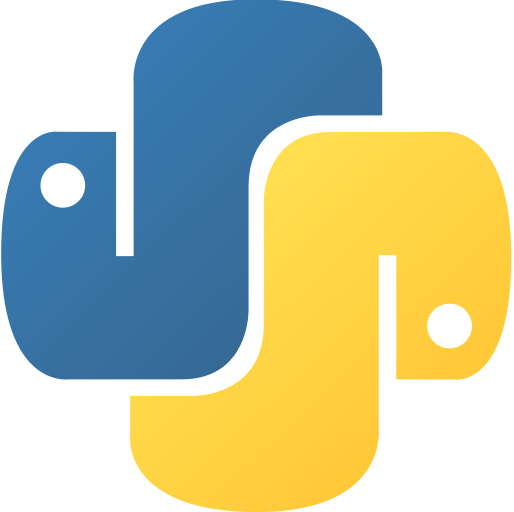
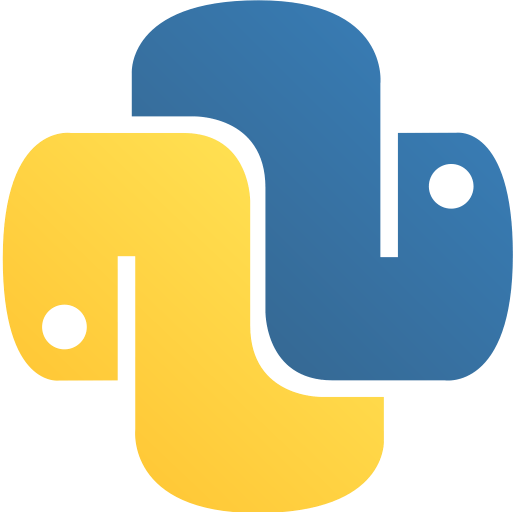
can save a gif now

diff --git a/main.py b/main.py
@@ -3,29 +3,81 @@ import numpy as np
 
 from transforms import *
 
+from debug import timer
+
 IMAGE_FILE = 'images/py_logo.png'
-OUTPUT_FILE = 'images/transformed.png'
+OUTPUT_FILE = 'images/transformed.gif'
+
+FRAME_COUNT = 100
+DURATION = 40 # ms
+
+BACKGROUND = np.array((0, 0, 0))
 
 def load_image(filename):
-	# Load the image as a numpy array
+	# Load the image as a numpy array (saved as [y, x, RGBA])
 	return np.array(Image.open(filename).convert('RGBA'))
 
-def save_image(im, filename):
-	# Save the image
-	im.save(filename)
+def save_image_sequence(im_sequence, filename):
+	images = []
+	for im in im_sequence:
+		images.append(Image.fromarray(blend_background(im, BACKGROUND)))
+	images[0].save(filename, save_all=True, append_images=images[1:], optimize=False, duration=DURATION, loop=1)
 
+def get_grid(x_size, y_size):
+	x = np.arange(x_size)
+	y = np.arange(y_size)
+	xx, yy = np.meshgrid(x, y)
+	return np.column_stack((xx.flatten(), yy.flatten()))
+	#return np.array([(x, y) for x in range(x_size) for y in range(y_size)], dtype=int)
+
+@timer
 def transform_image(im, f):
-	im_shape = im.shape
-	im_transform = np.zeros(im_shape, dtype=im.dtype)
+	y_size, x_size, color_size = im.shape
 
-	for x in range(im_shape[0]):
-		for y in range(im_shape[1]):
-			xx, yy = f(x, y)
-			xx, yy = int(np.round(xx)), int(np.round(yy))
-			if 0 <= xx < im_shape[0] and 0 <= yy < im_shape[1]:
-				im_transform[xx, yy, :] = im[x, y, :]
+	# Create a grid of points for every pixel in the image
+	grid = get_grid(x_size, y_size)
 
-	return im_transform
+	# Transform the grid
+	transformed_grid = f(grid)
+	
+	im_sequence = np.zeros((FRAME_COUNT, y_size, x_size, color_size), dtype=im.dtype)
+	for frame in range(FRAME_COUNT):
+		# Linear interpolation between grid and transformed grid
+		t = frame / (FRAME_COUNT - 1) if FRAME_COUNT > 1 else 1
+		frame_grid = lerp(grid, transformed_grid, t)
+
+		# Round to closest pixel coordinate
+		frame_grid = np.round(frame_grid).astype(int)
+
+		# Mask for all corinates within the image border
+		coord_in_range = valid_coordinates(frame_grid, 0, x_size, 0, y_size)
+
+		valid_transform = frame_grid[coord_in_range,:]
+		valid_grid = grid[coord_in_range,:]
+
+		# Set the new pixel colors
+		im_sequence[frame, valid_transform[:,1], valid_transform[:,0],:] = im[valid_grid[:,1], valid_grid[:,0], :]
+
+	return im_sequence
+
+def transform_grid(grid, f):
+	# Transform a grid with the function f and round to closest pixel
+	return f(grid)
+
+def valid_coordinates(grid, min_x, max_x, min_y, max_y):
+	x_coord_in_range = np.logical_and(min_x <= grid[...,0], grid[...,0] < max_x)
+	y_coord_in_range = np.logical_and(min_y <= grid[...,1], grid[...,1] < max_y)
+	return np.logical_and(x_coord_in_range, y_coord_in_range)
+
+def lerp(grid0, grid1, t):
+	return grid0 + (grid1 - grid0) * t
+
+def blend_background(colors, bg):
+	alpha = (colors[...,3] / 255)[...,np.newaxis]
+	new_color = colors[...,:3] * alpha + (1 - alpha) * bg
+	return np.round(new_color).astype(np.uint8)
+
+
 
 
 
@@ -34,16 +86,19 @@ def main():
 	im = load_image(IMAGE_FILE)
 
 	# Transform the image
-	im_transform = transform_image(im, mirror((1, 1), (im.shape[0] / 2, im.shape[1] / 2)))
-
-	print(im_transform.shape)
-
-	# Convert a numpy array into an image object
-	pil_img = Image.fromarray(im_transform)
+	#transform_func = mirror((1, 0), (0, im.shape[1] / 2))
+	transform_func = möbius(0, 512, 512, 512+512j, 512+512j, 512j)
+	#transform_func = mirror((1, 1), (im.shape[0] / 2, im.shape[1] / 2))
+	print('Calculation transformation...')
+	im_sequence = transform_image(im, transform_func)
 
 	# Save
-	save_image(pil_img, OUTPUT_FILE)
+	print('Saving image to {}'.format(OUTPUT_FILE))
+	save_image_sequence(im_sequence, OUTPUT_FILE)
+	print('Done')
 
+	# Convert a numpy array into an image object
+	pil_img = Image.fromarray(im_sequence[-1])
 	# Show image
 	pil_img.show()
 

diff --git a/transforms.py b/transforms.py
@@ -1,15 +1,63 @@
 import numpy as np
+from debug import timer
 
 # TODO: Decorator?
 
 
 
 def mirror(line, origin):
-	line = np.array(line, dtype=np.float64)
+	# Normalize the line
+	line = np.array(line, dtype=np.float64) / np.sqrt(np.dot(line, line))
 	origin = np.array(origin, dtype=np.float64)
-	def mirror_func(x, y):
-		p = np.array((x, y), dtype=np.float64)
-		p -= origin
-		p = 2 * np.dot(line, p) / np.dot(line, line) * line - p
-		return p + origin
+	def mirror_func(grid):
+		grid = grid.astype(float)
+		grid -= origin
+		s = 2 * np.matmul(grid, line)
+		grid = np.matmul(s[:,np.newaxis], line[np.newaxis,:]) - grid
+		return grid + origin
 	return mirror_func
+
+
+def möbius(z1, w1, z2, w2, z3, w3):
+	# Calculate the möbius function h(z) defined by the cross ratio [z, z1, z2, z3]
+	h_a, h_b, h_c, h_d = cross_ratio(z1, z2, z3)
+	# Calculate the möbius function g(w) defined by the cross ratio [w, w1, w2, w3]
+	g_a, g_b, g_c, g_d = cross_ratio(w1, w2, w3)
+	# Calculate the composition of g^(-1)(f(z))
+	a, b, c, d = möbius_composition(h_a, h_b, h_c, h_d, g_d, -g_b, -g_c, g_a)
+
+	def möbius_func(grid):
+		# Convert the grid to complex numbers
+		Z = grid[:, 0] + grid[:, 1] * 1j
+		# Möbius tansformation
+		Z = (a * Z + b) / (c * Z + d)
+		# Convert to a grid again
+		return np.column_stack((np.real(Z), np.imag(Z)))
+
+	return möbius_func
+
+def cross_ratio(z1, z2, z3):
+	a = z2 - z3
+	b = -z1 * (z2 - z3)
+	c = z2 - z1
+	d = -z3 * (z2 - z1)
+	return (a, b, c, d)
+
+def möbius_composition(a, b, c, d, e, f, g, h):
+	a_ = a * e + c * f
+	b_ = b * e + d * f
+	c_ = a * g + c * h
+	d_ = b * g + d * h
+	return (a_, b_, c_, d_)
+
+
+
+
+
+
+
+
+
+
+
+

diff --git a/debug.py b/debug.py
@@ -1,0 +1,14 @@
+import functools
+import time
+
+def timer(func):
+	"""Print the runtime of the decorated function"""
+	@functools.wraps(func)
+	def wrapper_timer(*args, **kwargs):
+		start_time = time.perf_counter() 
+		value = func(*args, **kwargs)
+		end_time = time.perf_counter()
+		run_time = end_time - start_time
+		print(f"Finished {func.__name__!r} in {run_time:.4f} secs")
+		return value
+	return wrapper_timer
